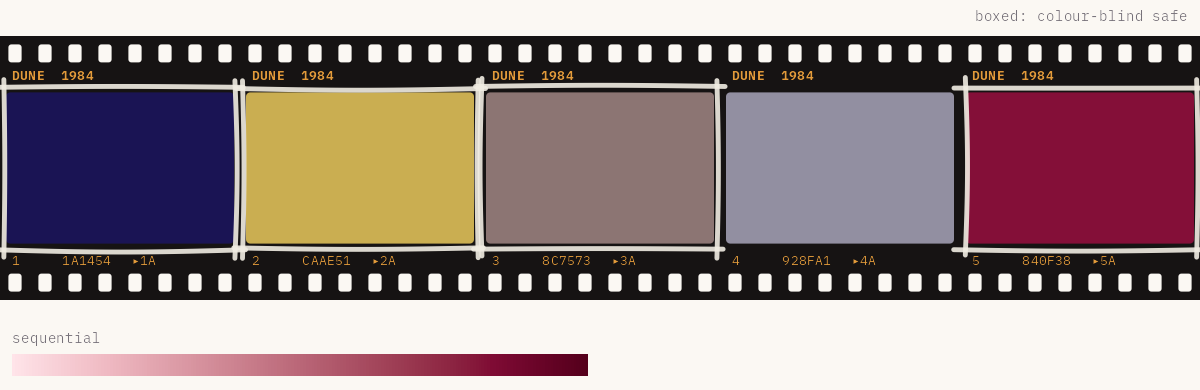
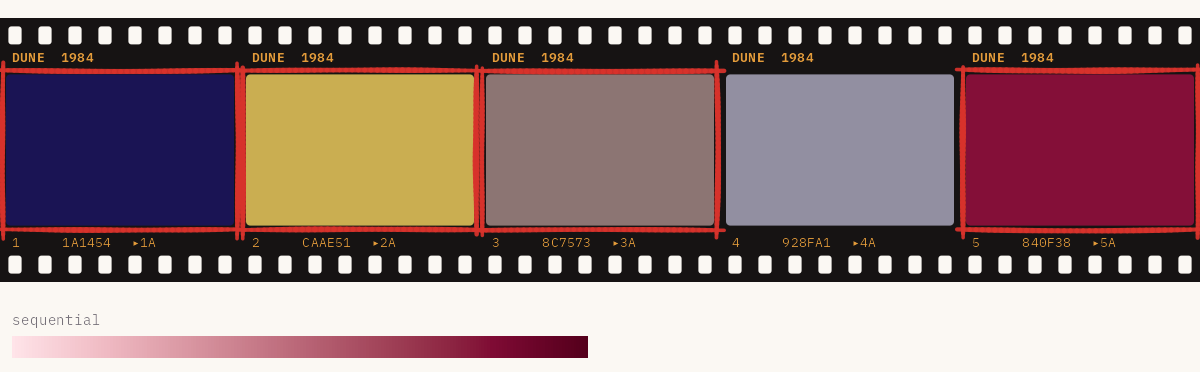
README: Wikipedia posters, red china-marker boxes, safe palettes in captions
A row of film posters, linked from Wikipedia rather than copied into the
repo. Colour-blind-safe frames are boxed in red marker, and each caption
now names the _safe palette instead of a note on the card.

Claude-Session: https://claude.ai/code/session_01BL4qFAtz49CSz4vjU8exbg

Changed region(s): [[0.0, 0.0296, 1.0, 0.7688], [0.0, 0.8575, 0.4933, 0.9167]]

diff --git a/docs/index.html b/docs/index.html
@@ -68,7 +68,7 @@
 <h2 id="quick-start">Quick start<a class="anchor" aria-label="anchor" href="#quick-start"></a>
 </h2>
 <div class="sourceCode" id="cb2"><pre class="downlit sourceCode r">
-<code class="sourceCode R"><span><span class="kw"><a href="https://rdrr.io/r/base/library.html" class="external-link">library</a></span><span class="op">(</span><span class="va"><a href="https://github.com/gkaramanis/Lynch" class="external-link">Lynch</a></span><span class="op">)</span></span>
+<code class="sourceCode R"><span><span class="kw"><a href="https://rdrr.io/r/base/library.html" class="external-link">library</a></span><span class="op">(</span><span class="va">Lynch</span><span class="op">)</span></span>
 <span></span>
 <span><span class="fu"><a href="reference/lynch_palette.html">lynch_palette</a></span><span class="op">(</span><span class="st">"twin_peaks"</span><span class="op">)</span></span></code></pre></div>
 <p><img src="reference/figures/example-twin_peaks.png" alt="The Twin Peaks palette: five swatches with their hex codes." width="100%"></p>
@@ -101,19 +101,22 @@
 <div class="section level2">
 <h2 id="the-palettes">The palettes<a class="anchor" aria-label="anchor" href="#the-palettes"></a>
 </h2>
-<p>Most palettes were sampled from stills collected in <a href="https://www.pinterest.se/pin/151152131226891232/" class="external-link">this Pinterest pin</a>. Each film’s title below links to its Wikipedia article, where you can hold the poster up against the colours.</p>
-<p><a href="https://en.wikipedia.org/wiki/Blue_Velvet_(film)" class="external-link"><strong>Blue Velvet</strong></a> · <code>"blue_velvet"</code></p>
-<p><img src="reference/figures/card-blue_velvet.png" alt="Blue Velvet palette as a strip of film: five colour frames, the colour-blind-safe ones boxed in grease pencil, sequential and diverging ramps." width="100%"></p>
-<p><a href="https://en.wikipedia.org/wiki/Dune_(1984_film)" class="external-link"><strong>Dune</strong></a> · <code>"dune"</code></p>
-<p><img src="reference/figures/card-dune.png" alt="Dune palette as a strip of film: five colour frames, the colour-blind-safe ones boxed in grease pencil and a sequential ramp." width="100%"></p>
-<p><a href="https://en.wikipedia.org/wiki/Lost_Highway_(film)" class="external-link"><strong>Lost Highway</strong></a> · <code>"lost_highway"</code></p>
+<p>Most palettes were sampled from stills collected in <a href="https://www.pinterest.se/pin/151152131226891232/" class="external-link">this Pinterest pin</a>. The posters, shown from Wikipedia, are there to hold up against the colours. Twin Peaks gets the poster for <em>Fire Walk with Me</em>, the film.</p>
+<p>
+<a href="https://en.wikipedia.org/wiki/Blue_Velvet_(film)" class="external-link"><img src="https://upload.wikimedia.org/wikipedia/en/f/fd/Blue_Velvet_%281986%29.png" alt="Blue Velvet poster" height="150"></a> <a href="https://en.wikipedia.org/wiki/Dune_(1984_film)" class="external-link"><img src="https://upload.wikimedia.org/wikipedia/en/5/51/Dune_1984_Poster.jpg" alt="Dune (1984) poster" height="150"></a> <a href="https://en.wikipedia.org/wiki/Lost_Highway_(film)" class="external-link"><img src="https://upload.wikimedia.org/wikipedia/en/4/47/Lost_Higway_%281997%29.png" alt="Lost Highway poster" height="150"></a> <a href="https://en.wikipedia.org/wiki/Mulholland_Drive_(film)" class="external-link"><img src="https://upload.wikimedia.org/wikipedia/en/0/0f/Mulholland.png" alt="Mulholland Drive poster" height="150"></a> <a href="https://en.wikipedia.org/wiki/Twin_Peaks:_Fire_Walk_with_Me" class="external-link"><img src="https://upload.wikimedia.org/wikipedia/en/3/3d/Twin_Peaks_-_Fire_Walk_with_Me.png" alt="Twin Peaks: Fire Walk with Me poster" height="150"></a> <a href="https://en.wikipedia.org/wiki/Wild_at_Heart_(film)" class="external-link"><img src="https://upload.wikimedia.org/wikipedia/en/6/60/Wild_at_Heart_film_poster.jpg" alt="Wild at Heart poster" height="150"></a>
+</p>
+<p><a href="https://en.wikipedia.org/wiki/Blue_Velvet_(film)" class="external-link"><strong>Blue Velvet</strong></a> · <code>"blue_velvet"</code> · boxed frames are colour-blind safe: <code>"blue_velvet_safe"</code></p>
+<p><img src="reference/figures/card-blue_velvet.png" alt="Blue Velvet palette as a strip of film: five colour frames, the colour-blind-safe ones boxed in red marker, sequential and diverging ramps." width="100%"></p>
+<p><a href="https://en.wikipedia.org/wiki/Dune_(1984_film)" class="external-link"><strong>Dune</strong></a> · <code>"dune"</code> · boxed frames are colour-blind safe: <code>"dune_safe"</code></p>
+<p><img src="reference/figures/card-dune.png" alt="Dune palette as a strip of film: five colour frames, the colour-blind-safe ones boxed in red marker and a sequential ramp." width="100%"></p>
+<p><a href="https://en.wikipedia.org/wiki/Lost_Highway_(film)" class="external-link"><strong>Lost Highway</strong></a> · <code>"lost_highway"</code> · all five colours are colour-blind safe</p>
 <p><img src="reference/figures/card-lost_highway.png" alt="Lost Highway palette as a strip of film: five colour frames, all colour-blind safe, and a sequential ramp." width="100%"></p>
-<p><a href="https://en.wikipedia.org/wiki/Mulholland_Drive_(film)" class="external-link"><strong>Mulholland Drive</strong></a> · <code>"mulholland_drive"</code></p>
-<p><img src="reference/figures/card-mulholland_drive.png" alt="Mulholland Drive palette as a strip of film: five colour frames, the colour-blind-safe ones boxed in grease pencil, sequential and diverging ramps." width="100%"></p>
-<p><a href="https://en.wikipedia.org/wiki/Twin_Peaks" class="external-link"><strong>Twin Peaks</strong></a> · <code>"twin_peaks"</code></p>
-<p><img src="reference/figures/card-twin_peaks.png" alt="Twin Peaks palette as a strip of film: five colour frames, the colour-blind-safe ones boxed in grease pencil, sequential and diverging ramps." width="100%"></p>
-<p><a href="https://en.wikipedia.org/wiki/Wild_at_Heart_(film)" class="external-link"><strong>Wild at Heart</strong></a> · <code>"wild_at_heart"</code></p>
-<p><img src="reference/figures/card-wild_at_heart.png" alt="Wild at Heart palette as a strip of film: five colour frames, the colour-blind-safe ones boxed in grease pencil, sequential and diverging ramps." width="100%"></p>
+<p><a href="https://en.wikipedia.org/wiki/Mulholland_Drive_(film)" class="external-link"><strong>Mulholland Drive</strong></a> · <code>"mulholland_drive"</code> · boxed frames are colour-blind safe: <code>"mulholland_drive_safe"</code></p>
+<p><img src="reference/figures/card-mulholland_drive.png" alt="Mulholland Drive palette as a strip of film: five colour frames, the colour-blind-safe ones boxed in red marker, sequential and diverging ramps." width="100%"></p>
+<p><a href="https://en.wikipedia.org/wiki/Twin_Peaks" class="external-link"><strong>Twin Peaks</strong></a> · <code>"twin_peaks"</code> · boxed frames are colour-blind safe: <code>"twin_peaks_safe"</code></p>
+<p><img src="reference/figures/card-twin_peaks.png" alt="Twin Peaks palette as a strip of film: five colour frames, the colour-blind-safe ones boxed in red marker, sequential and diverging ramps." width="100%"></p>
+<p><a href="https://en.wikipedia.org/wiki/Wild_at_Heart_(film)" class="external-link"><strong>Wild at Heart</strong></a> · <code>"wild_at_heart"</code> · boxed frames are colour-blind safe: <code>"wild_at_heart_safe"</code></p>
+<p><img src="reference/figures/card-wild_at_heart.png" alt="Wild at Heart palette as a strip of film: five colour frames, the colour-blind-safe ones boxed in red marker, sequential and diverging ramps." width="100%"></p>
 </div>
 <div class="section level2">
 <h2 id="colour-blindness">Colour blindness<a class="anchor" aria-label="anchor" href="#colour-blindness"></a>

diff --git a/README.md b/README.md
@@ -64,31 +64,40 @@ ggplot(faithfuld, aes(waiting, eruptions, fill = density)) +
 
 ## The palettes
 
-Most palettes were sampled from stills collected in [this Pinterest pin](https://www.pinterest.se/pin/151152131226891232/). Each film's title below links to its Wikipedia article, where you can hold the poster up against the colours.
+Most palettes were sampled from stills collected in [this Pinterest pin](https://www.pinterest.se/pin/151152131226891232/). The posters, shown from Wikipedia, are there to hold up against the colours. Twin Peaks gets the poster for *Fire Walk with Me*, the film.
 
-[**Blue Velvet**](https://en.wikipedia.org/wiki/Blue_Velvet_(film)) · `"blue_velvet"`
+<p>
+<a href="https://en.wikipedia.org/wiki/Blue_Velvet_(film)"><img src="https://upload.wikimedia.org/wikipedia/en/f/fd/Blue_Velvet_%281986%29.png" alt="Blue Velvet poster" height="150" /></a>
+<a href="https://en.wikipedia.org/wiki/Dune_(1984_film)"><img src="https://upload.wikimedia.org/wikipedia/en/5/51/Dune_1984_Poster.jpg" alt="Dune (1984) poster" height="150" /></a>
+<a href="https://en.wikipedia.org/wiki/Lost_Highway_(film)"><img src="https://upload.wikimedia.org/wikipedia/en/4/47/Lost_Higway_%281997%29.png" alt="Lost Highway poster" height="150" /></a>
+<a href="https://en.wikipedia.org/wiki/Mulholland_Drive_(film)"><img src="https://upload.wikimedia.org/wikipedia/en/0/0f/Mulholland.png" alt="Mulholland Drive poster" height="150" /></a>
+<a href="https://en.wikipedia.org/wiki/Twin_Peaks:_Fire_Walk_with_Me"><img src="https://upload.wikimedia.org/wikipedia/en/3/3d/Twin_Peaks_-_Fire_Walk_with_Me.png" alt="Twin Peaks: Fire Walk with Me poster" height="150" /></a>
+<a href="https://en.wikipedia.org/wiki/Wild_at_Heart_(film)"><img src="https://upload.wikimedia.org/wikipedia/en/6/60/Wild_at_Heart_film_poster.jpg" alt="Wild at Heart poster" height="150" /></a>
+</p>
 
-<img src="man/figures/card-blue_velvet.png" alt="Blue Velvet palette as a strip of film: five colour frames, the colour-blind-safe ones boxed in grease pencil, sequential and diverging ramps." width="100%" />
+[**Blue Velvet**](https://en.wikipedia.org/wiki/Blue_Velvet_(film)) · `"blue_velvet"` · boxed frames are colour-blind safe: `"blue_velvet_safe"`
 
-[**Dune**](https://en.wikipedia.org/wiki/Dune_(1984_film)) · `"dune"`
+<img src="man/figures/card-blue_velvet.png" alt="Blue Velvet palette as a strip of film: five colour frames, the colour-blind-safe ones boxed in red marker, sequential and diverging ramps." width="100%" />
 
-<img src="man/figures/card-dune.png" alt="Dune palette as a strip of film: five colour frames, the colour-blind-safe ones boxed in grease pencil and a sequential ramp." width="100%" />
+[**Dune**](https://en.wikipedia.org/wiki/Dune_(1984_film)) · `"dune"` · boxed frames are colour-blind safe: `"dune_safe"`
 
-[**Lost Highway**](https://en.wikipedia.org/wiki/Lost_Highway_(film)) · `"lost_highway"`
+<img src="man/figures/card-dune.png" alt="Dune palette as a strip of film: five colour frames, the colour-blind-safe ones boxed in red marker and a sequential ramp." width="100%" />
+
+[**Lost Highway**](https://en.wikipedia.org/wiki/Lost_Highway_(film)) · `"lost_highway"` · all five colours are colour-blind safe
 
 <img src="man/figures/card-lost_highway.png" alt="Lost Highway palette as a strip of film: five colour frames, all colour-blind safe, and a sequential ramp." width="100%" />
 
-[**Mulholland Drive**](https://en.wikipedia.org/wiki/Mulholland_Drive_(film)) · `"mulholland_drive"`
+[**Mulholland Drive**](https://en.wikipedia.org/wiki/Mulholland_Drive_(film)) · `"mulholland_drive"` · boxed frames are colour-blind safe: `"mulholland_drive_safe"`
 
-<img src="man/figures/card-mulholland_drive.png" alt="Mulholland Drive palette as a strip of film: five colour frames, the colour-blind-safe ones boxed in grease pencil, sequential and diverging ramps." width="100%" />
+<img src="man/figures/card-mulholland_drive.png" alt="Mulholland Drive palette as a strip of film: five colour frames, the colour-blind-safe ones boxed in red marker, sequential and diverging ramps." width="100%" />
 
-[**Twin Peaks**](https://en.wikipedia.org/wiki/Twin_Peaks) · `"twin_peaks"`
+[**Twin Peaks**](https://en.wikipedia.org/wiki/Twin_Peaks) · `"twin_peaks"` · boxed frames are colour-blind safe: `"twin_peaks_safe"`
 
-<img src="man/figures/card-twin_peaks.png" alt="Twin Peaks palette as a strip of film: five colour frames, the colour-blind-safe ones boxed in grease pencil, sequential and diverging ramps." width="100%" />
+<img src="man/figures/card-twin_peaks.png" alt="Twin Peaks palette as a strip of film: five colour frames, the colour-blind-safe ones boxed in red marker, sequential and diverging ramps." width="100%" />
 
-[**Wild at Heart**](https://en.wikipedia.org/wiki/Wild_at_Heart_(film)) · `"wild_at_heart"`
+[**Wild at Heart**](https://en.wikipedia.org/wiki/Wild_at_Heart_(film)) · `"wild_at_heart"` · boxed frames are colour-blind safe: `"wild_at_heart_safe"`
 
-<img src="man/figures/card-wild_at_heart.png" alt="Wild at Heart palette as a strip of film: five colour frames, the colour-blind-safe ones boxed in grease pencil, sequential and diverging ramps." width="100%" />
+<img src="man/figures/card-wild_at_heart.png" alt="Wild at Heart palette as a strip of film: five colour frames, the colour-blind-safe ones boxed in red marker, sequential and diverging ramps." width="100%" />
 
 ## Colour blindness
 
